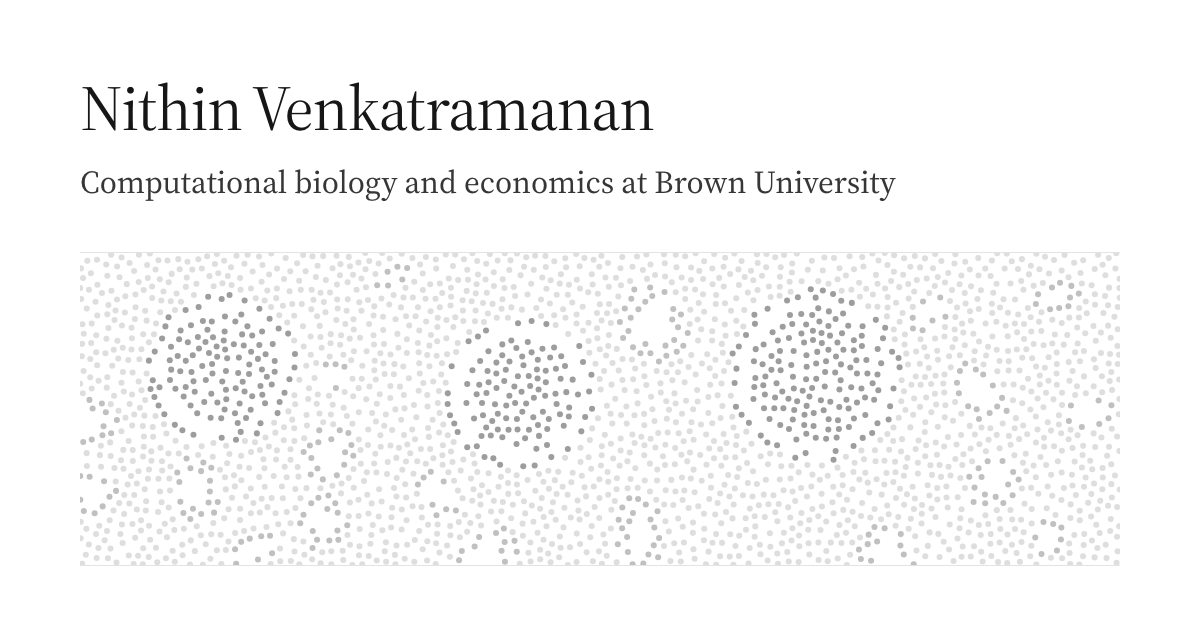
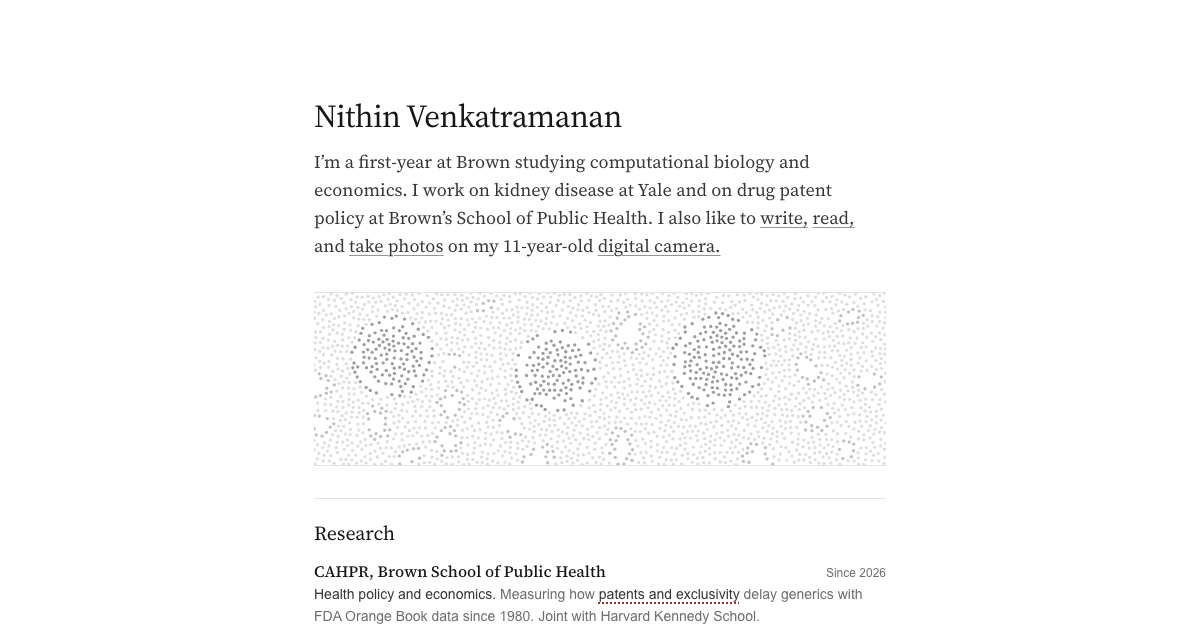
Use homepage screenshot as link preview

Changed region(s): [[0.0617, 0.2413, 0.925, 0.9952], [0.0617, 0.1206, 0.555, 0.2111]]

diff --git a/photos.html b/photos.html
@@ -8,7 +8,7 @@
   <meta property="og:type" content="website">
   <meta property="og:title" content="Photography">
   <meta property="og:description" content="An anthology of Nithin Venkatramanan&rsquo;s time at Brown, told through photographs.">
-  <meta property="og:image" content="https://nvenk.com/assets/og.png">
+  <meta property="og:image" content="https://nvenk.com/assets/og.png?v=2">
   <meta name="twitter:card" content="summary_large_image">
   <meta name="theme-color" content="#ffffff">
   <link rel="icon" href="favicon.svg?v=nv2" type="image/svg+xml">

diff --git a/spectra.html b/spectra.html
@@ -8,7 +8,7 @@
   <meta property="og:type" content="website">
   <meta property="og:title" content="Spectral matching">
   <meta property="og:description" content="An interactive example of matching an MS/MS spectrum to a library spectrum.">
-  <meta property="og:image" content="https://nvenk.com/assets/og.png">
+  <meta property="og:image" content="https://nvenk.com/assets/og.png?v=2">
   <meta name="twitter:card" content="summary_large_image">
   <meta name="theme-color" content="#ffffff">
   <link rel="icon" href="favicon.svg?v=nv2" type="image/svg+xml">

diff --git a/tissue.html b/tissue.html
@@ -8,7 +8,7 @@
   <meta property="og:type" content="website">
   <meta property="og:title" content="Kidney section">
   <meta property="og:description" content="An interactive simulated kidney section showing podocyte loss in FSGS.">
-  <meta property="og:image" content="https://nvenk.com/assets/og.png">
+  <meta property="og:image" content="https://nvenk.com/assets/og.png?v=2">
   <meta name="twitter:card" content="summary_large_image">
   <meta name="theme-color" content="#ffffff">
   <link rel="icon" href="favicon.svg?v=nv2" type="image/svg+xml">

diff --git a/index.html b/index.html
@@ -11,7 +11,7 @@
   <meta property="og:type" content="website">
   <meta property="og:title" content="Nithin Venkatramanan">
   <meta property="og:description" content="Computational biology and economics at Brown University.">
-  <meta property="og:image" content="https://nvenk.com/assets/og.png">
+  <meta property="og:image" content="https://nvenk.com/assets/og.png?v=2">
   <meta name="twitter:card" content="summary_large_image">
   <meta name="theme-color" content="#ffffff">
   <link rel="icon" href="favicon.svg?v=nv2" type="image/svg+xml">

diff --git a/exclusivity.html b/exclusivity.html
@@ -8,7 +8,7 @@
   <meta property="og:type" content="website">
   <meta property="og:title" content="Drug exclusivity">
   <meta property="og:description" content="An interactive model of when a generic drug can launch.">
-  <meta property="og:image" content="https://nvenk.com/assets/og.png">
+  <meta property="og:image" content="https://nvenk.com/assets/og.png?v=2">
   <meta name="twitter:card" content="summary_large_image">
   <meta name="theme-color" content="#ffffff">
   <link rel="icon" href="favicon.svg?v=nv2" type="image/svg+xml">

diff --git a/write.html b/write.html
@@ -8,7 +8,7 @@
   <meta property="og:type" content="website">
   <meta property="og:title" content="Writings">
   <meta property="og:description" content="Short daily pieces by Nithin Venkatramanan, each one unedited.">
-  <meta property="og:image" content="https://nvenk.com/assets/og.png">
+  <meta property="og:image" content="https://nvenk.com/assets/og.png?v=2">
   <meta name="twitter:card" content="summary_large_image">
   <meta name="theme-color" content="#ffffff">
   <link rel="icon" href="favicon.svg?v=nv2" type="image/svg+xml">
